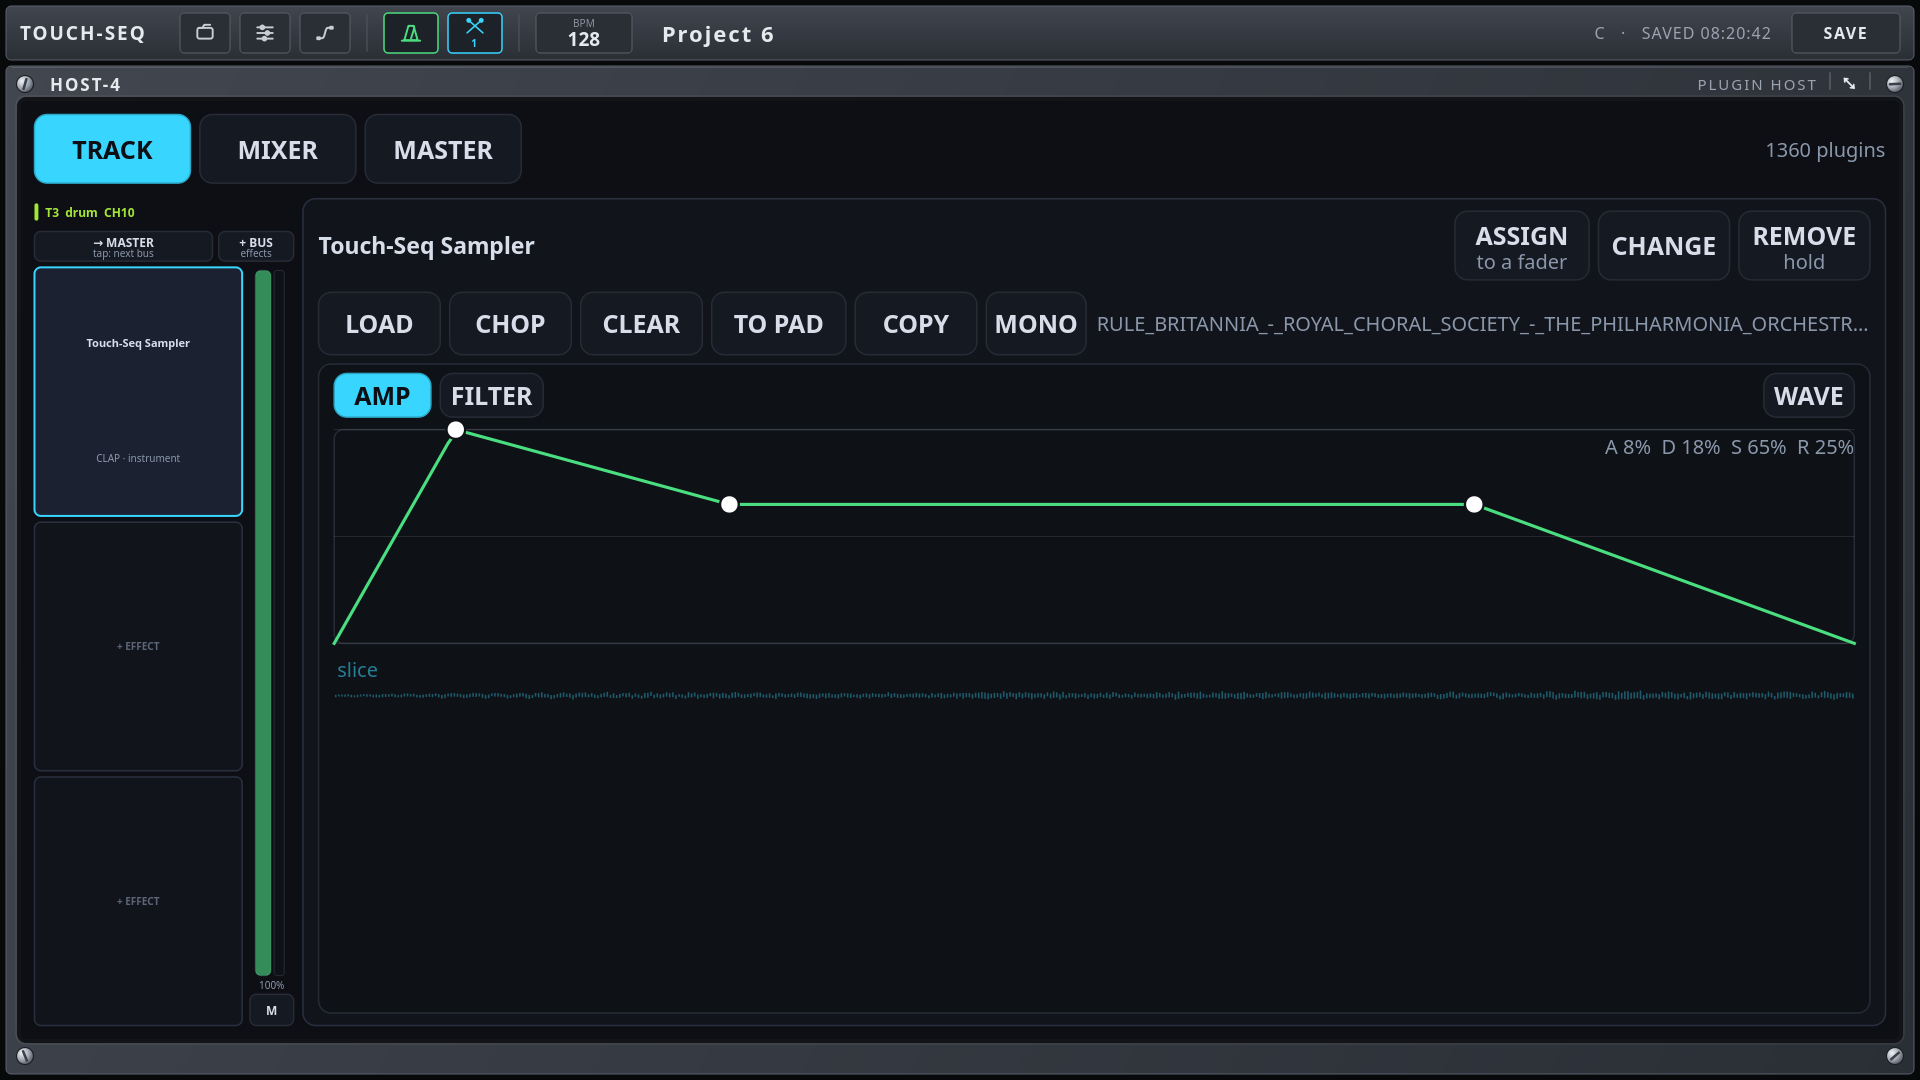
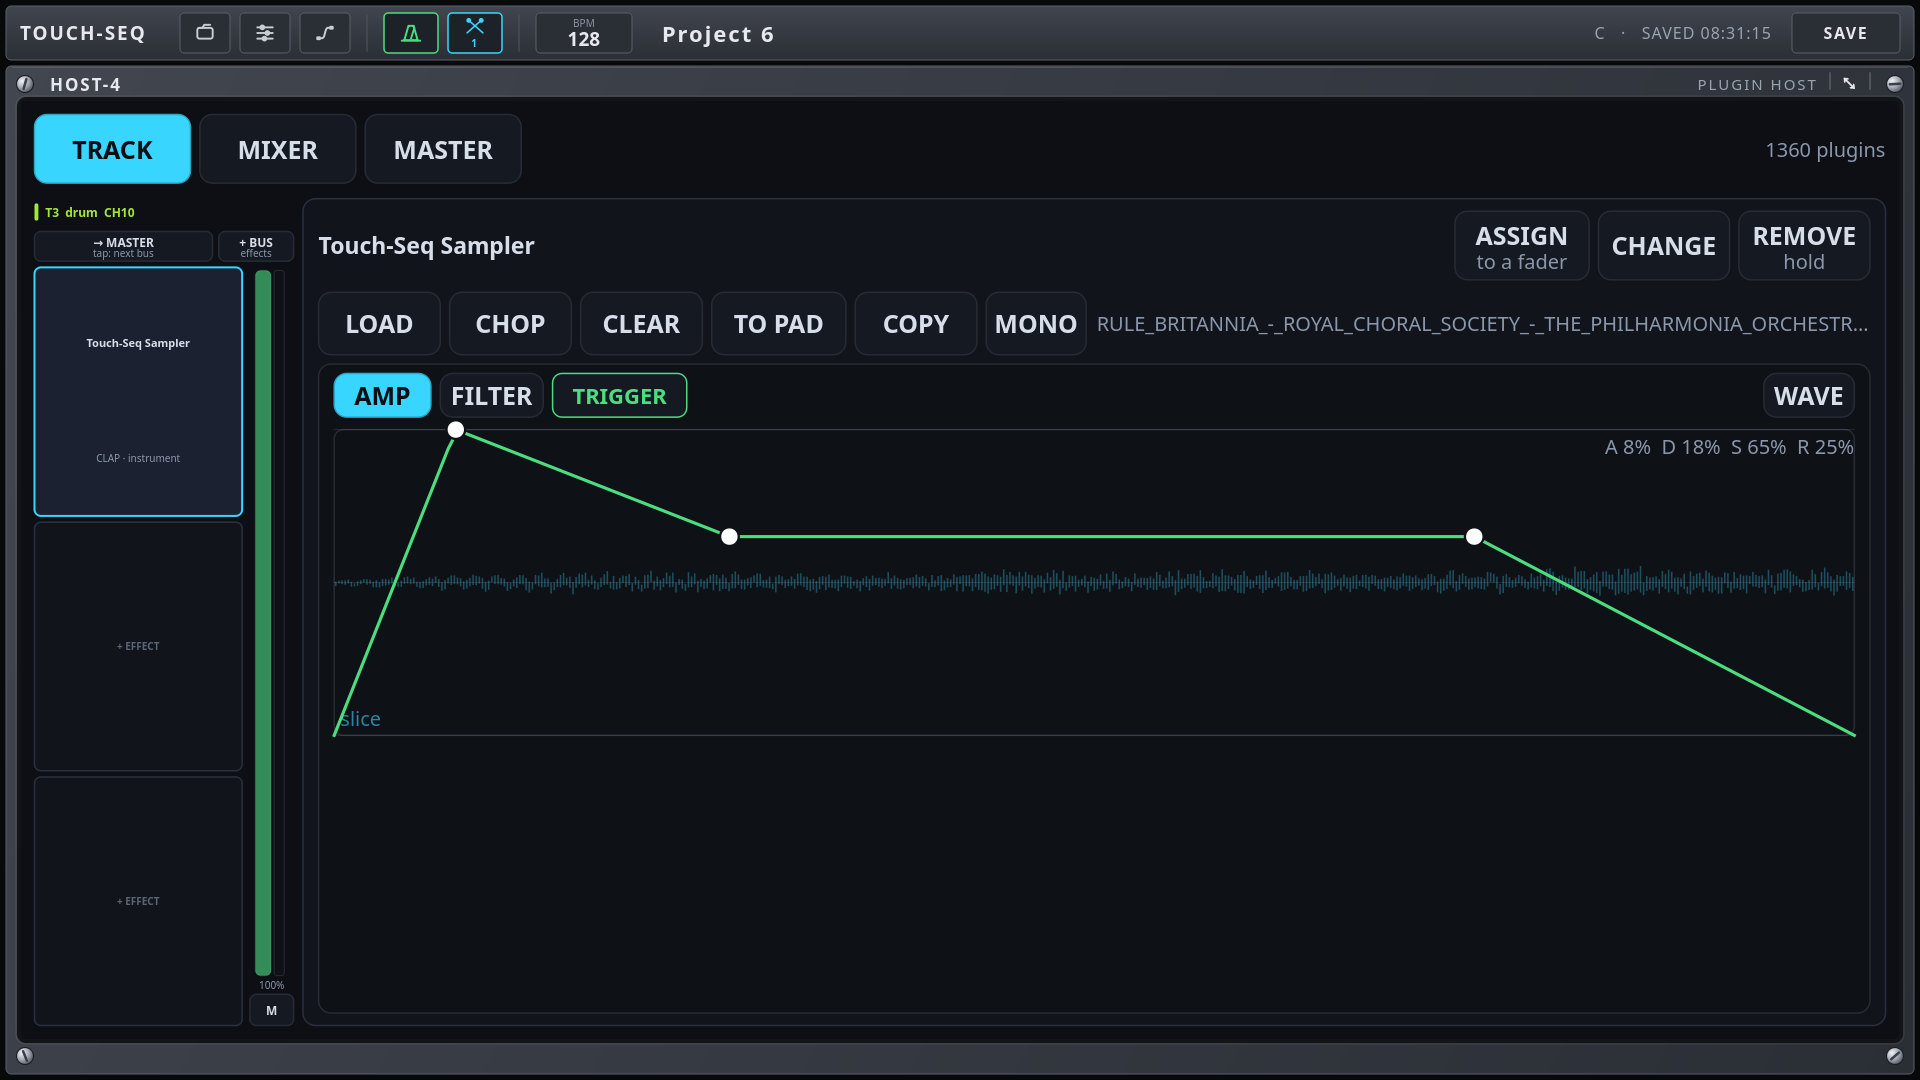
sampler: ADSR ghost behind the curve, trigger and reverse

diff --git a/tseq/sampler.py b/tseq/sampler.py
@@ -267,12 +267,14 @@ class PadHold(Gesture):
 class EnvDrag(Gesture):
     """A point of the amp/filter envelope: sideways moves its time, up/down sets the sustain level."""
 
-    def __init__(self, editor, rect, which, pos):
-        self.editor, self.rect, self.which = editor, rect, which
+    def __init__(self, editor, rect, which, pos, mirror=False):
+        self.editor, self.rect, self.which, self.mirror = editor, rect, which, mirror
         self.move(pos)
 
     def move(self, pos):
         t = max(0.0, min(1.0, (pos.x() - self.rect.left()) / max(1.0, self.rect.width())))
+        if self.mirror:
+            t = 1.0 - t
         v = max(0.0, min(1.0, (self.rect.bottom() - pos.y()) / max(1.0, self.rect.height())))
         self.editor.set_env(self.which, t, v)
         self.editor.save_live()
@@ -950,48 +952,52 @@ class SamplerEditor:
                         DIM, 10, Qt.AlignLeft | Qt.AlignVCenter, elide=True)
 
     def draw_envelope(self, p, rect):
-        """The amp/filter envelopes over the selected slice, with the slice's waveform as a dim ghost."""
+        """The amp/filter envelopes over the selected slice. The slice's waveform is a dim ghost behind the
+        curve, and a reversed pad mirrors the envelope so it fires from the slice's end."""
         s = self.panel.s
         pad = self.pads[self.pad]
         header = QRectF(rect.left() + 10 * s, rect.top() + 6 * s, rect.width() - 20 * s, 28 * s)
-        amp, filt, _, wave = split(header, [62 * s, 66 * s, 0, 58 * s], 6 * s)
+        amp, filt, trigger, _, wave = split(header, [62 * s, 66 * s, 86 * s, 0, 58 * s], 6 * s)
         self.panel.button(p, amp, "AMP", lambda: setattr(self, "env_tab", "amp"), on=self.env_tab == "amp")
         self.panel.button(p, filt, "FILTER", lambda: setattr(self, "env_tab", "filter"),
                           on=self.env_tab == "filter")
+        self.panel.box(p, trigger, PANEL, "#4ade80", radius=6)
+        self.panel.text(p, trigger, "TRIGGER", "#4ade80", 14, bold=True)
+        self.panel.region(trigger, lambda pos: PadHold(self, self.pad))
         self.panel.button(p, wave, "WAVE", self.toggle_env)
         if not pad or not self.frames or pad.get("file") != self.current:
             self.panel.text(p, QRectF(rect.left(), header.bottom(), rect.width(), rect.bottom() - header.bottom()),
                             "select a pad with a slice first", DIM, 14)
             return
         env = pad.get("amp" if self.env_tab == "amp" else "filter") or [0.0, 0.0, 1.0, 0.0]
-        body = QRectF(rect.left() + 10 * s, header.bottom() + 8 * s, rect.width() - 20 * s,
+        area = QRectF(rect.left() + 10 * s, header.bottom() + 8 * s, rect.width() - 20 * s,
                       rect.height() - header.bottom() - 18 * s)
-        ghost_h = body.height() * 0.26
-        ghost = QRectF(body.left(), body.bottom() - ghost_h, body.width(), ghost_h)
-        area = QRectF(body.left(), body.top(), body.width(), body.height() - ghost_h - 8 * s)
         side = None
         if self.env_tab == "filter":
             side = QRectF(area.right() - 138 * s, area.top(), 138 * s, area.height())
             area = QRectF(area.left(), area.top(), area.width() - 148 * s, area.height())
+        mirror = bool(pad.get("reverse"))
 
         start = max(0, min(self.frames, int(pad["start"])))
         end = max(start + 1, min(self.frames, int(pad["end"])))
-        columns = max(1, int(ghost.width() / (2 * s)))
+        columns = max(1, int(area.width() / (2 * s)))
         key = ("env", self.current, start, end, columns)
         values = self.peak_cache.get(key)
         if values is None:
             values = peaks_range(self.samples, start, end, columns)
             self.peak_cache[key] = values
-        p.setPen(QPen(QColor(56, 214, 255, 95), 1.0 * s))
-        for n, (low, high) in enumerate(values):
-            x = ghost.left() + (n + 0.5) * ghost.width() / max(1, len(values))
-            y0 = ghost.center().y() - high * ghost.height() * 0.45
-            y1 = ghost.center().y() - low * ghost.height() * 0.45
-            p.drawLine(QPointF(x, y0), QPointF(x, y1))
-        self.panel.text(p, ghost.adjusted(2 * s, 0, 0, 0), "slice", QColor(56, 214, 255, 140), 10,
-                        Qt.AlignLeft | Qt.AlignTop)
 
         self.panel.box(p, area, "#0e1116", BORDER, radius=6)
+        # the slice itself, behind everything, dim: the range the envelope is drawn over
+        p.setPen(QPen(QColor(56, 214, 255, 80), 1.0 * s))
+        for n, (low, high) in enumerate(values):
+            x = area.left() + (n + 0.5) * area.width() / max(1, len(values))
+            y0 = area.center().y() - high * area.height() * 0.42
+            y1 = area.center().y() - low * area.height() * 0.42
+            p.drawLine(QPointF(x, y0), QPointF(x, y1))
+        self.panel.text(p, area.adjusted(4 * s, 0, 0, -2 * s), "slice",
+                        QColor(56, 214, 255, 150), 10, Qt.AlignLeft | Qt.AlignBottom)
+
         for value in (0.0, 0.5, 1.0):
             y = area.bottom() - value * area.height()
             p.setPen(QPen(QColor(255, 255, 255, 25), 1))
@@ -1000,8 +1006,8 @@ class SamplerEditor:
         steps = 160
         for i in range(steps + 1):
             t = i / steps
-            points.append(QPointF(area.left() + t * area.width(),
-                                  area.bottom() - self.env_value(env, t) * area.height()))
+            x = area.left() + ((1.0 - t) if mirror else t) * area.width()
+            points.append(QPointF(x, area.bottom() - self.env_value(env, t) * area.height()))
         colour = "#4ade80" if self.env_tab == "amp" else "#38d6ff"
         p.setPen(QPen(QColor(colour), 2 * s))
         p.setBrush(Qt.NoBrush)
@@ -1009,12 +1015,13 @@ class SamplerEditor:
         a, d, sus, r = env
         for which, t, v in (("attack", a, 1.0), ("decay", min(1.0, a + d), sus),
                             ("release", max(0.0, 1.0 - r), sus)):
-            c = QPointF(area.left() + t * area.width(), area.bottom() - v * area.height())
+            x = area.left() + ((1.0 - t) if mirror else t) * area.width()
+            c = QPointF(x, area.bottom() - v * area.height())
             p.setBrush(QColor("#ffffff"))
             p.setPen(QPen(QColor("#0e1116"), 1.5 * s))
             p.drawEllipse(c, 6 * s, 6 * s)
             self.panel.region(QRectF(c.x() - 14 * s, c.y() - 14 * s, 28 * s, 28 * s),
-                              lambda pos, which=which: EnvDrag(self, area, which, pos))
+                              lambda pos, which=which: EnvDrag(self, area, which, pos, mirror))
         self.panel.text(p, QRectF(area.left(), area.top() + 2 * s, area.width(), 14 * s),
                         f"A {a * 100:.0f}%  D {d * 100:.0f}%  S {sus * 100:.0f}%  R {r * 100:.0f}%",
                         DIM, 10, Qt.AlignRight | Qt.AlignTop)

diff --git a/tests/test_app.py b/tests/test_app.py
@@ -2652,6 +2652,17 @@ editor.env_tab = "filter"
 img.fill(0); q = QPainter(img); editor.draw(q, QRectF(0, 0, 700, 400), fake_plugin, 5, manifest); q.end()
 img.save(str(OUT / "sampler_adsr_filter.png"))
 editor.env_open = False
+# the editor tells the plugin which kind of reload an edit needs: a light map update or a full sample load
+class _Param:
+    def __init__(self, name, index): self.name, self.index = name, index
+calls = []
+editor.plugin = types.SimpleNamespace(params=[_Param("Slot", 0), _Param("Reload", 1), _Param("Load", 2)])
+panel.set_param = lambda plugin, index, value, source=None: calls.append(index)
+editor.save_reload()
+editor.save_reload(full=True)
+assert calls[-2:] == [1, 2], calls  # Reload for the map, Load when the samples changed
+editor.plugin = fake_plugin
+panel.set_param = lambda *a, **k: None
 # the knobs move in their own units: gain past 1 (0..4) in 0.02 steps, pitch in 0.1 semitones
 gv = []
 gpd = PadDrag(QPointF(0, 0), lambda: 1.0, gv.append, 0.0, 4.0, 1.2, 0.02, lambda: None)

diff --git a/README.md b/README.md
@@ -71,9 +71,10 @@ cursor, and change the arrangement **on the bar** instead of on the downbeat of 
   group. **MONO** cuts the previous pad when a new one starts. **PITCH** moves at 12 px per semitone and snaps
   to a whole semitone on release; **STRETCH** shifts the pitch without changing the slice's length (a granular
   shift, not resampling). **STOP** silences every voice. **ADSR** turns the waveform into the amp or filter
-  envelope editor: the slice's waveform is a dim ghost and the curve is drawn above it. The times are fractions
-  of the slice, so lengthening the slice stretches the envelope with it; the filter tab also has **Cutoff**,
-  **Reso** and the envelope depth. The editor's pads play while held, like PLAY-12's, so
+  envelope editor: the slice's waveform is a dim ghost behind the curve. The times are fractions of the slice,
+  so lengthening the slice stretches the envelope with it; a reversed pad mirrors the envelope, so it fires
+  from the slice's end. **TRIGGER** holds the pad for auditioning, exactly like tapping it, and the filter tab
+  also has **Cutoff**, **Reso** and the envelope depth. The editor's pads play while held, like PLAY-12's, so
   GATE and LOOP are heard; dragging the slice handles or the **↔** bar updates a held loop as you drag, with no
   gap. **LOCATE** centres the waveform on the selected pad's slice, zoomed so it fills about a third of the
   view. **PRESETS**
@@ -248,9 +249,9 @@ the first free name (*Touch-Seq 2*, …) and says so in HOST-4's status line: bo
   **↔** bar moves the whole slice. Each pad has Gain (up to 4×), Pan, Pitch, Loop, Reverse and **Gate** and a **GRP**
   playback group: pads in the same group cut each other; the pads take the drum voices' fixed colors.
   **MONO** cuts the previous pad when a new one starts; **STRETCH** shifts the pitch without changing the
-  length, and **STOP** silences every voice. **ADSR** shows the amp/filter envelope over the slice as a ghost,
-  scaled to the slice (so it stretches when the slice does); the filter tab adds a low-pass with Cutoff, Reso
-  and envelope depth. The editor's pads play while held, so GATE/LOOP work as in
+  length, and **STOP** silences every voice. **ADSR** draws the amp/filter envelope over the slice's ghost,
+  scaled to the slice (so it stretches when the slice does; a reversed pad mirrors it) with a **TRIGGER** to
+  audition; the filter tab adds a low-pass with Cutoff, Reso and envelope depth. The editor's pads play while held, so GATE/LOOP work as in
   PLAY-12, and slice edits are heard on a held loop as it is dragged. **PRESETS** saves the pads and the
   samples they use on the machine (not in the project's plugin folder): a track or project deleted later
   leaves the preset intact, and one preset can be loaded into another project; SAVE asks for the name on the
